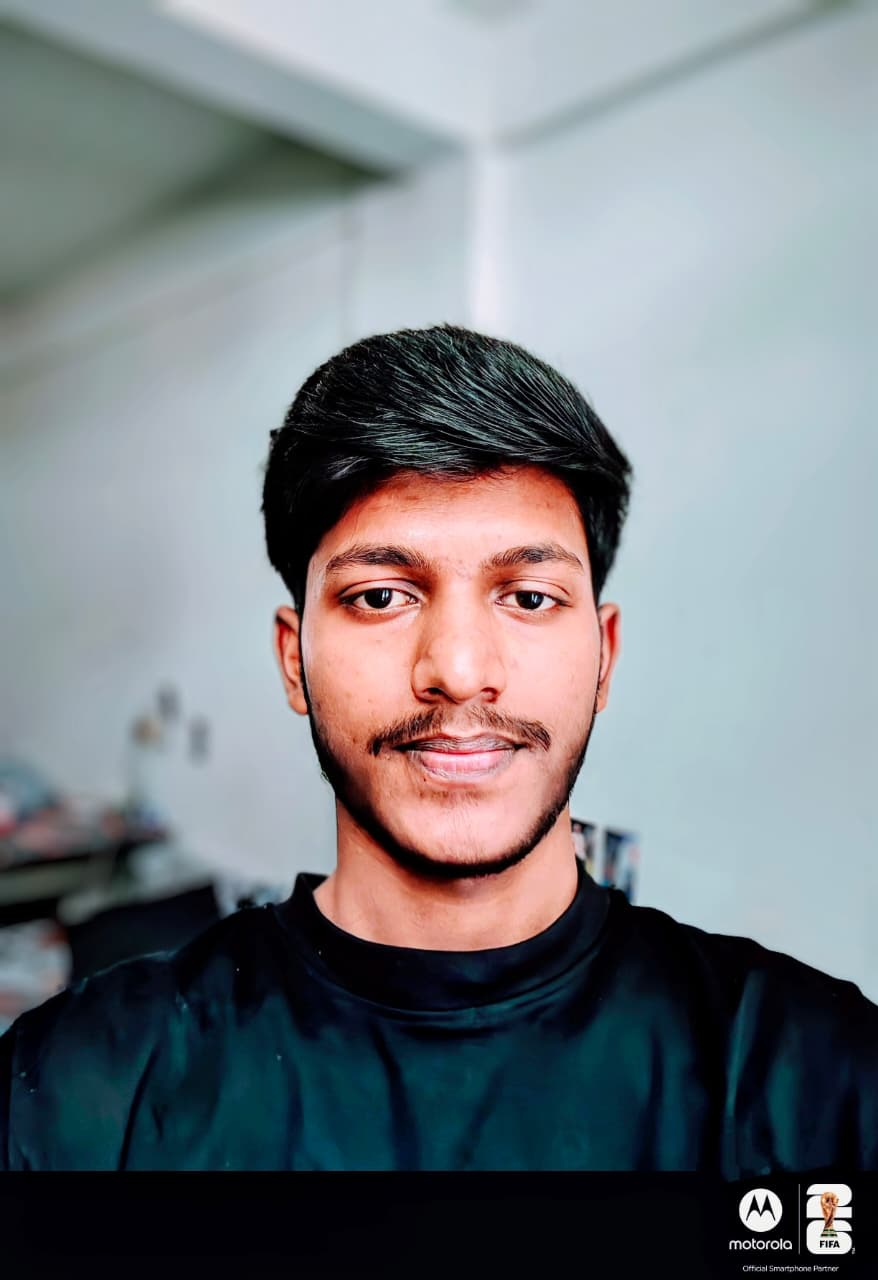
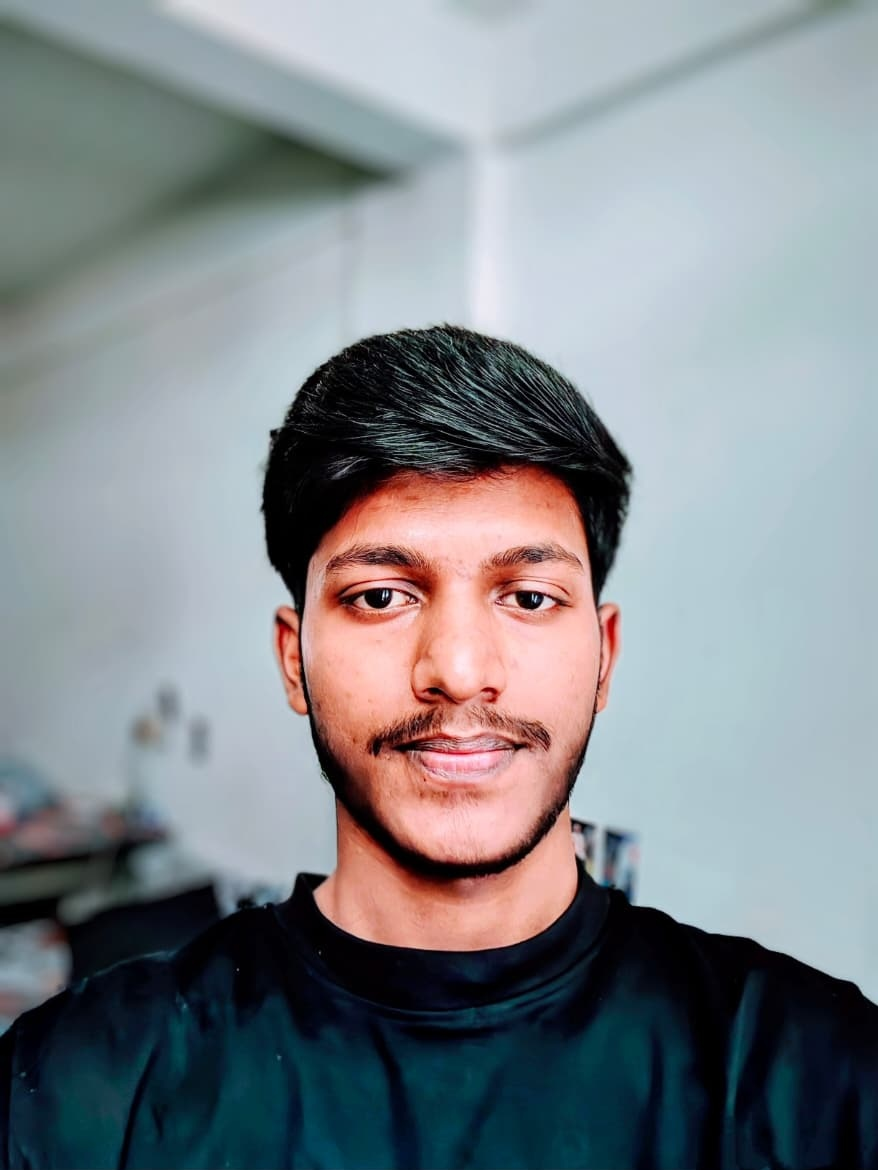
feat: adjust hero photo card size and shift towards right side

diff --git a/src/components/sections/HeroSection.tsx b/src/components/sections/HeroSection.tsx
@@ -22,114 +22,157 @@ export function HeroSection({ scrollY }: HeroSectionProps) {
       {/* Cyber Grid Subtlety */}
       <div className="absolute inset-0 bg-cyber-grid opacity-50 pointer-events-none" />
 
-      {/* Hero Content Layer */}
-      <div className="relative z-10 max-w-4xl mx-auto my-auto text-center flex flex-col items-center">
-        {/* Holographic / Cyber Profile Portrait */}
+      {/* Hero Content Layer - 2-Column Responsive Layout */}
+      <div className="relative z-10 max-w-[1320px] mx-auto my-auto w-full grid grid-cols-1 lg:grid-cols-12 gap-8 lg:gap-10 items-center py-6 sm:py-8">
+        {/* Left Column: Personal Narrative & Call to Actions */}
+        <div className="lg:col-span-8 flex flex-col items-center lg:items-start text-center lg:text-left">
+          {/* Academic / Location Monospace Badge */}
+          <motion.div
+            initial={{ opacity: 0, y: -15 }}
+            animate={{ opacity: 1, y: 0 }}
+            transition={{ duration: 0.6 }}
+            className="inline-flex items-center gap-2 px-3.5 py-1.5 rounded-full bg-[#080D16]/90 border border-slate-700/60 text-xs font-mono text-slate-300 mb-6 backdrop-blur-md shadow-lg shadow-black/40"
+          >
+            <span className="w-2 h-2 rounded-full bg-orange-400 animate-pulse" />
+            <span>B.Tech CSE (Data Science) • PSIT Kanpur</span>
+            <span className="text-slate-600">|</span>
+            <span className="text-orange-400 flex items-center gap-1 font-semibold">
+              <Sparkles className="w-3 h-3 text-amber-400" /> 2026 Developer
+            </span>
+          </motion.div>
+
+          {/* Main Name */}
+          <motion.h1
+            initial={{ opacity: 0, y: 20 }}
+            animate={{ opacity: 1, y: 0 }}
+            transition={{ duration: 0.7, delay: 0.15 }}
+            className="text-4xl sm:text-6xl md:text-7xl font-heading font-black tracking-tight text-white mb-3"
+          >
+            Hi, I'm{' '}
+            <span className="text-transparent bg-clip-text bg-gradient-to-r from-orange-400 via-amber-300 to-blue-400">
+              Kartik Verma
+            </span>
+            .
+          </motion.h1>
+
+          {/* Core Identity */}
+          <motion.p
+            initial={{ opacity: 0, y: 15 }}
+            animate={{ opacity: 1, y: 0 }}
+            transition={{ duration: 0.7, delay: 0.25 }}
+            className="text-lg sm:text-2xl md:text-3xl font-heading font-semibold text-transparent bg-clip-text bg-gradient-to-r from-blue-400 via-amber-300 to-orange-400 tracking-wide mb-6 uppercase"
+          >
+            AI • Data Science • Full-Stack Developer
+          </motion.p>
+
+          {/* Honest, Evidence-Driven Positioning Statement */}
+          <motion.p
+            initial={{ opacity: 0, y: 15 }}
+            animate={{ opacity: 1, y: 0 }}
+            transition={{ duration: 0.7, delay: 0.35 }}
+            className="text-base sm:text-lg text-slate-300 max-w-xl font-sans leading-relaxed mb-8"
+          >
+            Building AI-assisted products, geospatial intelligence systems, and full-stack software through project-driven experimentation and algorithmic discipline.
+          </motion.p>
+
+          {/* Action Magnetic Buttons */}
+          <motion.div
+            initial={{ opacity: 0, y: 20 }}
+            animate={{ opacity: 1, y: 0 }}
+            transition={{ duration: 0.7, delay: 0.45 }}
+            className="flex flex-wrap items-center justify-center lg:justify-start gap-4 mb-8"
+          >
+            <MagneticButton href="#work" cursorType="project">
+              <div className="px-7 py-3.5 rounded-full bg-gradient-to-r from-orange-600 via-orange-500 to-amber-600 hover:from-orange-500 hover:to-amber-500 text-white font-mono text-xs sm:text-sm font-semibold tracking-wider transition-all shadow-xl shadow-orange-500/25 border border-orange-400/40 hover:scale-105">
+                EXPLORE MY WORK
+              </div>
+            </MagneticButton>
+
+            <MagneticButton href={SOCIAL_LINKS.github} target="_blank" rel="noopener noreferrer" cursorType="github">
+              <div className="px-7 py-3.5 rounded-full bg-[#080D16]/90 hover:bg-slate-800 text-slate-200 font-mono text-xs sm:text-sm font-semibold tracking-wider transition-all border border-slate-700/80 hover:border-orange-500/60 flex items-center gap-2 hover:scale-105">
+                <GithubIcon className="w-4 h-4 text-orange-400" />
+                <span>VIEW GITHUB</span>
+              </div>
+            </MagneticButton>
+          </motion.div>
+
+          {/* Quick Monospace Spec Badges */}
+          <motion.div
+            initial={{ opacity: 0 }}
+            animate={{ opacity: 1 }}
+            transition={{ duration: 0.7, delay: 0.55 }}
+            className="flex flex-wrap items-center justify-center lg:justify-start gap-2.5 text-[11px] font-mono text-slate-400"
+          >
+            <span className="px-2.5 py-1 rounded-md bg-[#080D16]/80 border border-slate-800 text-orange-300">
+              ⚡ Python & PyTorch
+            </span>
+            <span className="px-2.5 py-1 rounded-md bg-[#080D16]/80 border border-slate-800 text-sky-300">
+              ◈ React 19 & TypeScript
+            </span>
+            <span className="px-2.5 py-1 rounded-md bg-[#080D16]/80 border border-slate-800 text-amber-300">
+              ✦ NASA FIRMS Geospatial
+            </span>
+          </motion.div>
+        </div>
+
+        {/* Right Column: Proper Full Uncropped Portrait Photo Card */}
         <motion.div
-          initial={{ opacity: 0, scale: 0.85 }}
-          animate={{ opacity: 1, scale: 1 }}
-          transition={{ duration: 0.7, ease: [0.16, 1, 0.3, 1] }}
-          className="relative mb-6 group"
+          initial={{ opacity: 0, x: 30, scale: 0.95 }}
+          animate={{ opacity: 1, x: 0, scale: 1 }}
+          transition={{ duration: 0.8, delay: 0.2, ease: [0.16, 1, 0.3, 1] }}
+          className="lg:col-span-4 flex justify-center lg:justify-end lg:pr-2"
         >
-          {/* Outer Ambient Glow Aura */}
-          <div className="absolute -inset-2 rounded-full bg-gradient-to-r from-orange-500/40 via-amber-500/30 to-blue-500/40 blur-xl opacity-75 group-hover:opacity-100 transition-opacity duration-700 animate-pulse pointer-events-none" />
+          <div className="relative group max-w-[260px] sm:max-w-[285px] lg:max-w-[305px] w-full lg:translate-x-5">
+            {/* Ambient Multi-Layer Glow Aura */}
+            <div className="absolute -inset-3 rounded-3xl bg-gradient-to-tr from-orange-500/30 via-amber-500/20 to-blue-500/30 blur-2xl opacity-70 group-hover:opacity-100 transition-opacity duration-700 pointer-events-none" />
 
-          {/* Futuristic HUD Corner Crosshairs */}
-          <div className="absolute -top-1 -left-1 text-[11px] font-mono text-orange-400/70 select-none pointer-events-none">⌜</div>
-          <div className="absolute -top-1 -right-1 text-[11px] font-mono text-orange-400/70 select-none pointer-events-none">⌝</div>
-          <div className="absolute -bottom-1 -left-1 text-[11px] font-mono text-orange-400/70 select-none pointer-events-none">⌞</div>
-          <div className="absolute -bottom-1 -right-1 text-[11px] font-mono text-orange-400/70 select-none pointer-events-none">⌟</div>
+            {/* Futuristic HUD Corner Crosshairs */}
+            <div className="absolute -top-3 -left-3 text-sm font-mono text-orange-400/80 select-none pointer-events-none z-20">⌜</div>
+            <div className="absolute -top-3 -right-3 text-sm font-mono text-orange-400/80 select-none pointer-events-none z-20">⌝</div>
+            <div className="absolute -bottom-3 -left-3 text-sm font-mono text-orange-400/80 select-none pointer-events-none z-20">⌞</div>
+            <div className="absolute -bottom-3 -right-3 text-sm font-mono text-orange-400/80 select-none pointer-events-none z-20">⌟</div>
 
-          {/* Outer Cyber Gradient Ring */}
-          <div className="relative p-[3px] rounded-full bg-gradient-to-tr from-orange-500 via-amber-400 to-blue-400 shadow-2xl shadow-orange-500/25 transition-transform duration-500 group-hover:scale-105">
-            {/* Inner Dark Matting with Subtle Border */}
-            <div className="p-1 rounded-full bg-[#080D16] border border-slate-700/60 backdrop-blur-md">
-              <div className="relative w-28 h-28 sm:w-32 sm:h-32 md:w-36 md:h-36 rounded-full overflow-hidden bg-slate-900">
-                <img
-                  src="/photo.jpeg"
-                  alt="Kartik Verma"
-                  className="w-full h-full object-cover object-[center_18%] filter contrast-[1.05] brightness-[1.02] group-hover:scale-110 transition-transform duration-700 ease-out"
-                />
-                {/* Dark Vignette Overlay for Theme Integration */}
-                <div className="absolute inset-0 bg-gradient-to-t from-[#05070B]/50 via-transparent to-transparent pointer-events-none" />
+            {/* Glowing Cyber Gradient Frame */}
+            <div className="relative p-[2.5px] rounded-3xl bg-gradient-to-tr from-orange-500 via-amber-400 via-purple-500 to-blue-500 shadow-2xl shadow-orange-500/20 transition-all duration-500 group-hover:shadow-orange-500/40">
+              {/* Inner Dark Shell */}
+              <div className="relative rounded-[22px] bg-[#080D16] p-2 overflow-hidden border border-slate-800">
+                {/* HUD Top Bar Header */}
+                <div className="flex items-center justify-between px-3 py-2 mb-2 rounded-lg bg-[#05070B]/90 border border-slate-800/80 text-[10px] font-mono">
+                  <div className="flex items-center gap-1.5 text-slate-300">
+                    <span className="w-1.5 h-1.5 rounded-full bg-orange-400 animate-ping" />
+                    <span className="text-orange-400 font-bold tracking-wider">KARTIK VERMA</span>
+                  </div>
+                  <div className="flex items-center gap-1.5 text-emerald-400">
+                    <span className="w-1.5 h-1.5 rounded-full bg-emerald-400" />
+                    <span className="tracking-widest">DEV // ACTIVE</span>
+                  </div>
+                </div>
+
+                {/* Proper Uncropped Photo Container */}
+                <div className="relative aspect-[3/4] w-full rounded-xl overflow-hidden bg-slate-950">
+                  <img
+                    src="/photo.jpeg"
+                    alt="Kartik Verma"
+                    className="w-full h-full object-cover object-top filter contrast-[1.04] brightness-[1.02] group-hover:scale-105 transition-transform duration-700 ease-out"
+                  />
+                  {/* Subtle Theme Gradients Overlay (Does not obscure face, blends edges) */}
+                  <div className="absolute inset-0 bg-gradient-to-t from-[#080D16] via-transparent to-transparent opacity-60 pointer-events-none" />
+
+                  {/* Floating Glassmorphism Spec Tag over bottom of photo */}
+                  <div className="absolute bottom-3 left-3 right-3 p-2.5 rounded-lg bg-[#080D16]/90 border border-slate-700/70 backdrop-blur-md flex items-center justify-between text-xs font-mono shadow-xl">
+                    <div>
+                      <div className="text-[10px] text-slate-400 uppercase tracking-wider">Specialization</div>
+                      <div className="font-semibold text-slate-100 text-[11px]">AI & Data Science</div>
+                    </div>
+                    <div className="text-right">
+                      <div className="text-[10px] text-orange-400 font-bold">PSIT '26</div>
+                      <div className="text-[10px] text-slate-400">Kanpur, IN</div>
+                    </div>
+                  </div>
+                </div>
               </div>
             </div>
           </div>
-
-          {/* Status Badge Pill */}
-          <div className="absolute -bottom-2 left-1/2 -translate-x-1/2 px-3 py-1 rounded-full bg-[#080D16]/95 border border-orange-500/50 shadow-lg shadow-black/80 flex items-center gap-1.5 whitespace-nowrap text-[10px] sm:text-[11px] font-mono text-slate-200 backdrop-blur-md">
-            <span className="relative flex h-2 w-2">
-              <span className="animate-ping absolute inline-flex h-full w-full rounded-full bg-emerald-400 opacity-75" />
-              <span className="relative inline-flex rounded-full h-2 w-2 bg-emerald-400" />
-            </span>
-            <span className="font-semibold text-orange-300 tracking-wider">AVAILABLE TO BUILD</span>
-          </div>
-        </motion.div>
-
-        {/* Academic / Location Monospace Badge */}
-        <motion.div
-          initial={{ opacity: 0, y: -15 }}
-          animate={{ opacity: 1, y: 0 }}
-          transition={{ duration: 0.6 }}
-          className="inline-flex items-center gap-2 px-3.5 py-1.5 rounded-full bg-[#080D16]/90 border border-slate-700/60 text-xs font-mono text-slate-300 mb-6 backdrop-blur-md shadow-lg shadow-black/40"
-        >
-          <span className="w-2 h-2 rounded-full bg-orange-400 animate-pulse" />
-          <span>B.Tech CSE (Data Science) • PSIT Kanpur</span>
-          <span className="text-slate-600">|</span>
-          <span className="text-orange-400 flex items-center gap-1 font-semibold">
-            <Sparkles className="w-3 h-3 text-amber-400" /> 2026 Developer
-          </span>
-        </motion.div>
-
-        {/* Main Name */}
-        <motion.h1
-          initial={{ opacity: 0, y: 20 }}
-          animate={{ opacity: 1, y: 0 }}
-          transition={{ duration: 0.7, delay: 0.15 }}
-          className="text-4xl sm:text-6xl md:text-7xl lg:text-8xl font-heading font-black tracking-tight text-white mb-3"
-        >
-          Hi, I'm <span className="text-transparent bg-clip-text bg-gradient-to-r from-orange-400 via-amber-300 to-blue-400">Kartik Verma</span>.
-        </motion.h1>
-
-        {/* Core Identity */}
-        <motion.p
-          initial={{ opacity: 0, y: 15 }}
-          animate={{ opacity: 1, y: 0 }}
-          transition={{ duration: 0.7, delay: 0.25 }}
-          className="text-lg sm:text-2xl md:text-3xl font-heading font-semibold text-transparent bg-clip-text bg-gradient-to-r from-blue-400 via-amber-300 to-orange-400 tracking-wide mb-6 uppercase"
-        >
-          AI • Data Science • Full-Stack Developer
-        </motion.p>
-
-        {/* Honest, Evidence-Driven Positioning Statement */}
-        <motion.p
-          initial={{ opacity: 0, y: 15 }}
-          animate={{ opacity: 1, y: 0 }}
-          transition={{ duration: 0.7, delay: 0.35 }}
-          className="text-base sm:text-lg md:text-xl text-slate-300 max-w-2xl mx-auto font-sans leading-relaxed mb-10"
-        >
-          Building AI-assisted products, geospatial intelligence systems, and full-stack software through project-driven experimentation and algorithmic discipline.
-        </motion.p>
-
-        {/* Action Magnetic Buttons */}
-        <motion.div
-          initial={{ opacity: 0, y: 20 }}
-          animate={{ opacity: 1, y: 0 }}
-          transition={{ duration: 0.7, delay: 0.45 }}
-          className="flex flex-wrap items-center justify-center gap-4"
-        >
-          <MagneticButton href="#work" cursorType="project">
-            <div className="px-7 py-3.5 rounded-full bg-gradient-to-r from-orange-600 via-orange-500 to-amber-600 hover:from-orange-500 hover:to-amber-500 text-white font-mono text-xs sm:text-sm font-semibold tracking-wider transition-all shadow-xl shadow-orange-500/25 border border-orange-400/40 hover:scale-105">
-              EXPLORE MY WORK
-            </div>
-          </MagneticButton>
-
-          <MagneticButton href={SOCIAL_LINKS.github} target="_blank" rel="noopener noreferrer" cursorType="github">
-            <div className="px-7 py-3.5 rounded-full bg-[#080D16]/90 hover:bg-slate-800 text-slate-200 font-mono text-xs sm:text-sm font-semibold tracking-wider transition-all border border-slate-700/80 hover:border-orange-500/60 flex items-center gap-2 hover:scale-105">
-              <GithubIcon className="w-4 h-4 text-orange-400" />
-              <span>VIEW GITHUB</span>
-            </div>
-          </MagneticButton>
         </motion.div>
       </div>
 
